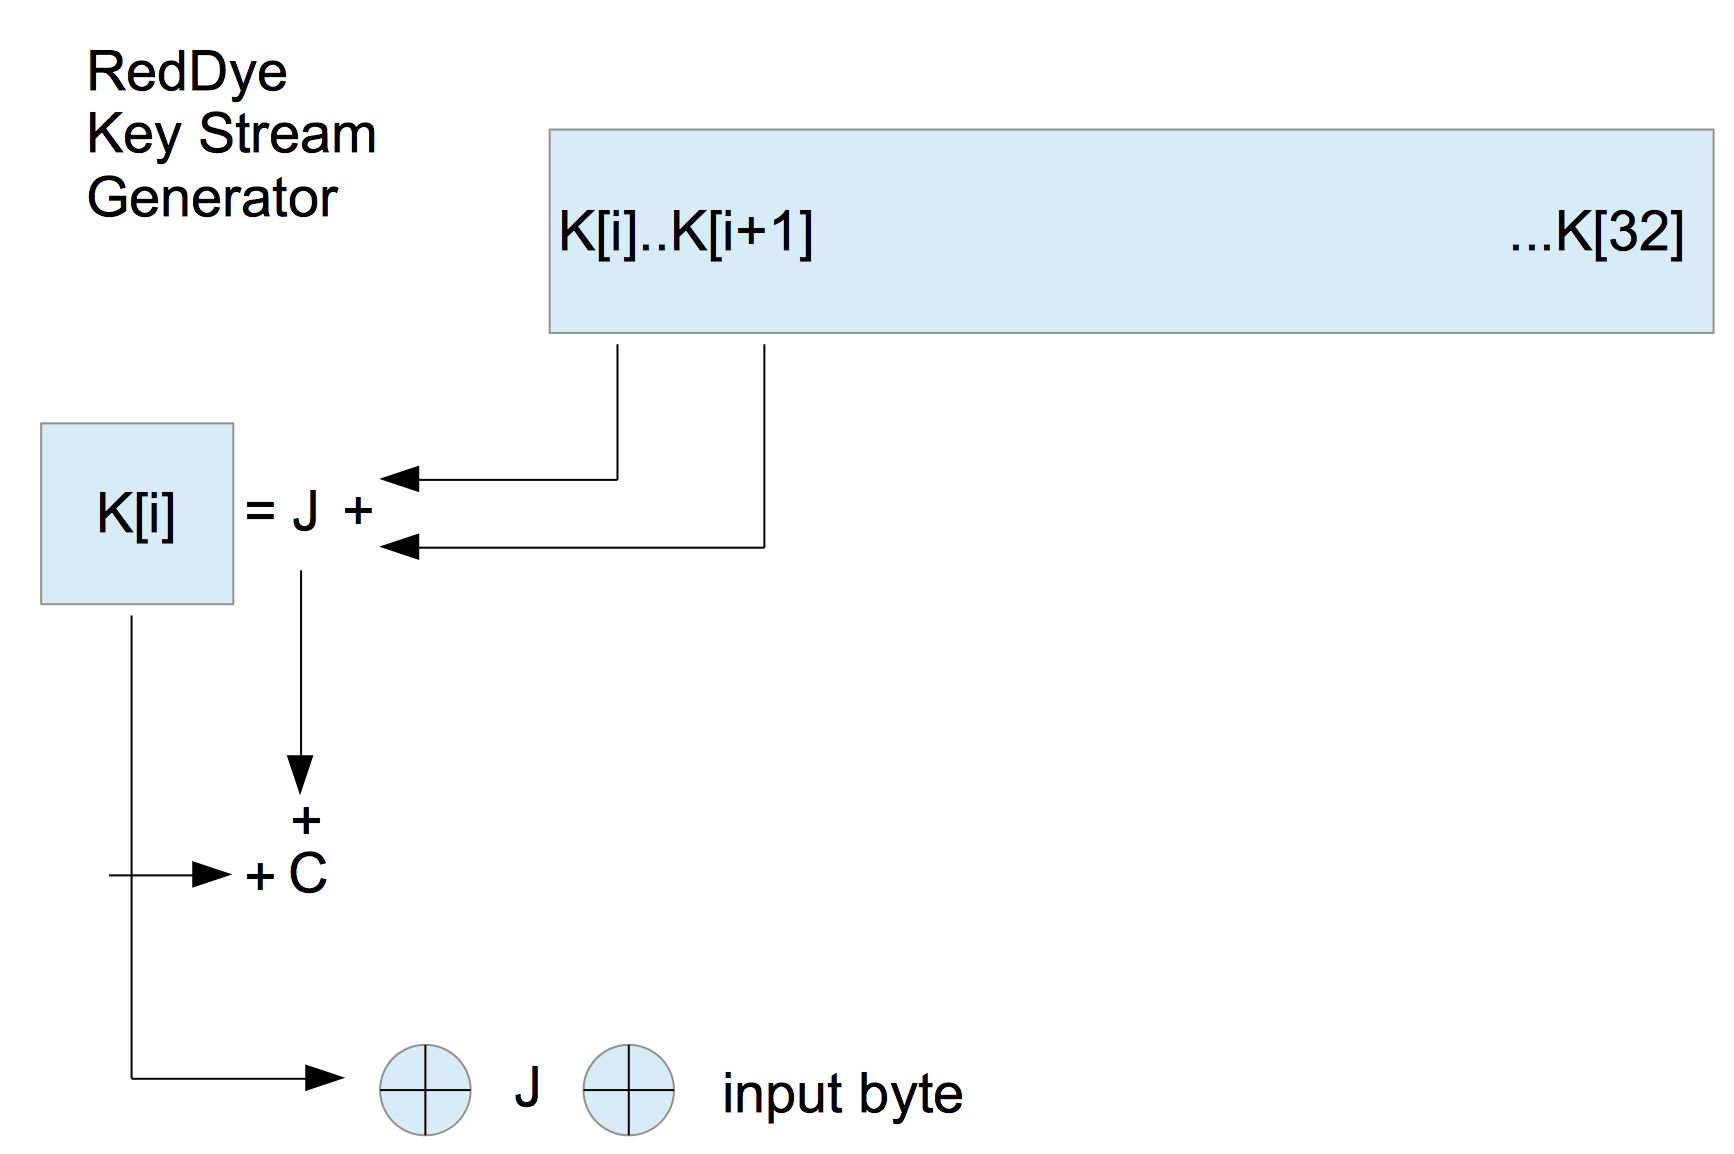
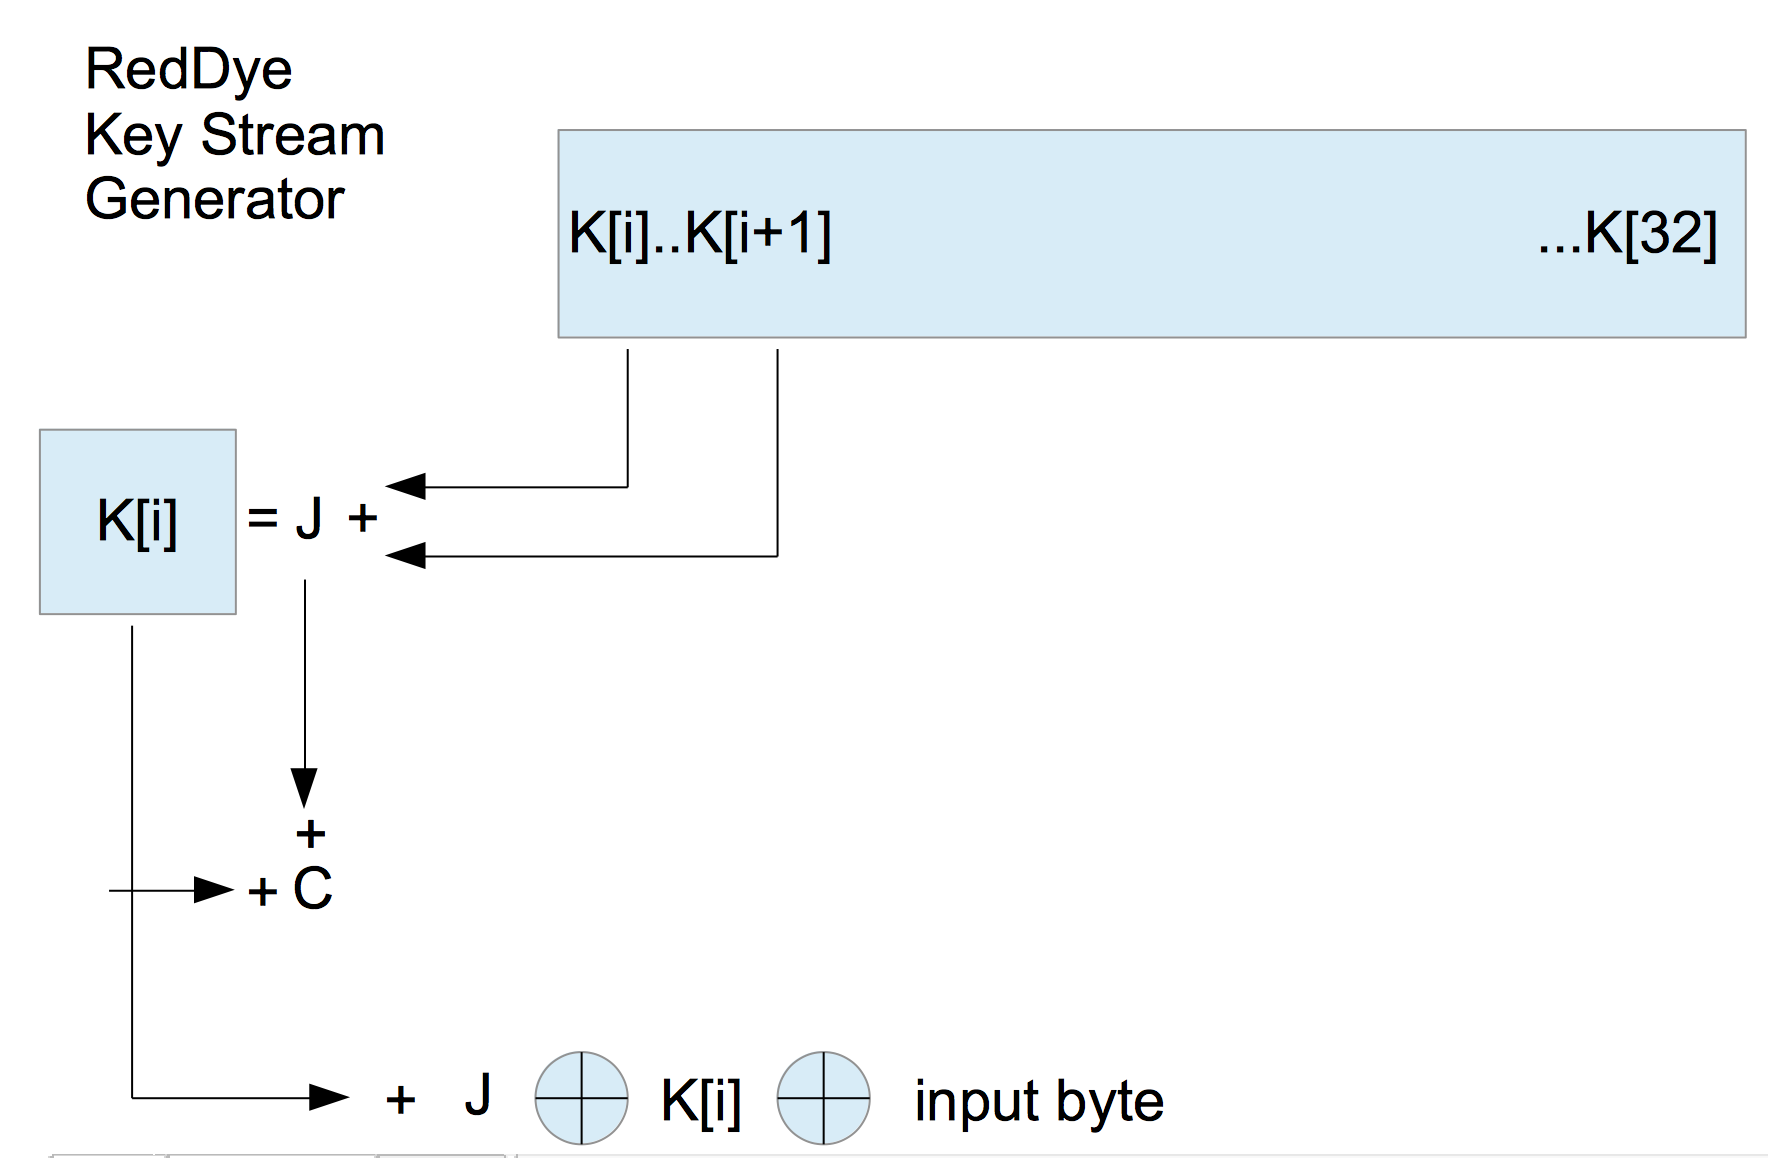
RedDye Refit

diff --git a/python/H4/__init__.py b/python/H4/__init__.py
@@ -17,7 +17,7 @@ class H4:
         for char in chars:
             k[c % klen] = (k[c % klen] + k[(c + 1) % klen] + j) % 26
             j = (j + k[c % klen] + c) % 26
-            output = (j + k[c % klen]) % 26
+            output = (((j + k[c % klen]) % 26) + k[c % klen]) % 26
             sub = (output + (ord(char) - 65)) % 26
             ctxt.append(chr(sub + 65))
             c = (c + 1) % 26
@@ -31,7 +31,7 @@ class H4:
         for char in chars:
             k[c % klen] = (k[c % klen] + k[(c + 1) % klen] + j) % 26
             j = (j + k[c % klen] + c) % 26
-            output = (j + k[c % klen]) % 26
+            output = (((j + k[c % klen]) % 26) + k[c % klen]) % 26
             sub = ((ord(char) - 65) - output) % 26
             ctxt.append(chr(sub + 65))
             c = (c + 1) % 26

diff --git a/c/redcrypt/redcrypt.c b/c/redcrypt/redcrypt.c
@@ -76,7 +76,7 @@ int main(int argc, char *argv[]) {
             for (int b = 0; b < bsize; b++) {
                 k[i] = (k[i] + k[(i + 1) % keylen] + j) & 0xff;
                 j = (j + k[i] + c) & 0xff;
-		output = j ^ k[i];
+		output = ((j + k[i]) & 0xff) ^ k[i];
                 block[b] = block[b] ^ output;
                 c = (c + 1) & 0xff;
                 i = (i + 1) % keylen;
@@ -102,7 +102,7 @@ int main(int argc, char *argv[]) {
             for (int b = 0; b < bsize; b++) {
                 k[i] = (k[i] + k[(i + 1) % keylen] + j) & 0xff;
                 j = (j + k[i] + c) & 0xff;
-		output = j ^ k[i];
+		output = ((j + k[i]) & 0xff) ^ k[i];
                 block[b] = block[b] ^ output;
                 c = (c + 1) & 0xff;
 		i = (i + 1) % keylen;

diff --git a/c/redcrypt_1024/redcrypt.c b/c/redcrypt_1024/redcrypt.c
@@ -76,7 +76,7 @@ int main(int argc, char *argv[]) {
             for (int b = 0; b < bsize; b++) {
                 k[i] = (k[i] + k[(i + 1) % keylen] + j) & 0xff;
                 j = (j + k[i] + c) & 0xff;
-		output = j ^ k[i];
+		output = ((j + k[i]) & 0xff) ^ k[i];
                 block[b] = block[b] ^ output;
                 c = (c + 1) & 0xff;
                 i = (i + 1) % keylen;
@@ -102,7 +102,7 @@ int main(int argc, char *argv[]) {
             for (int b = 0; b < bsize; b++) {
                 k[i] = (k[i] + k[(i + 1) % keylen] + j) & 0xff;
                 j = (j + k[i] + c) & 0xff;
-		output = j ^ k[i];
+		output = ((j + k[i]) & 0xff) ^ k[i];
                 block[b] = block[b] ^ output;
                 c = (c + 1) & 0xff;
 		i = (i + 1) % keylen;

diff --git a/c/redcrypt_128/redcrypt.c b/c/redcrypt_128/redcrypt.c
@@ -76,7 +76,7 @@ int main(int argc, char *argv[]) {
             for (int b = 0; b < bsize; b++) {
                 k[i] = (k[i] + k[(i + 1) % keylen] + j) & 0xff;
                 j = (j + k[i] + c) & 0xff;
-		output = j ^ k[i];
+		output = ((j + k[i]) & 0xff) ^ k[i];
                 block[b] = block[b] ^ output;
                 c = (c + 1) & 0xff;
                 i = (i + 1) % keylen;
@@ -102,7 +102,7 @@ int main(int argc, char *argv[]) {
             for (int b = 0; b < bsize; b++) {
                 k[i] = (k[i] + k[(i + 1) % keylen] + j) & 0xff;
                 j = (j + k[i] + c) & 0xff;
-		output = j ^ k[i];
+		output = ((j + k[i]) & 0xff) ^ k[i];
                 block[b] = block[b] ^ output;
                 c = (c + 1) & 0xff;
 		i = (i + 1) % keylen;

diff --git a/c/redcrypt_512/redcrypt.c b/c/redcrypt_512/redcrypt.c
@@ -76,7 +76,7 @@ int main(int argc, char *argv[]) {
             for (int b = 0; b < bsize; b++) {
                 k[i] = (k[i] + k[(i + 1) % keylen] + j) & 0xff;
                 j = (j + k[i] + c) & 0xff;
-		output = j ^ k[i];
+		output = ((j + k[i]) & 0xff) ^ k[i];
                 block[b] = block[b] ^ output;
                 c = (c + 1) & 0xff;
                 i = (i + 1) % keylen;
@@ -102,7 +102,7 @@ int main(int argc, char *argv[]) {
             for (int b = 0; b < bsize; b++) {
                 k[i] = (k[i] + k[(i + 1) % keylen] + j) & 0xff;
                 j = (j + k[i] + c) & 0xff;
-		output = j ^ k[i];
+		output = ((j + k[i]) & 0xff) ^ k[i];
                 block[b] = block[b] ^ output;
                 c = (c + 1) & 0xff;
 		i = (i + 1) % keylen;

diff --git a/c/redcrypt_2048/redcrypt.c b/c/redcrypt_2048/redcrypt.c
@@ -76,7 +76,7 @@ int main(int argc, char *argv[]) {
             for (int b = 0; b < bsize; b++) {
                 k[c] = (k[c] + k[(c + 1) & 0xff] + j) & 0xff;
                 j = (j + k[c] + c) & 0xff;
-		output = j ^ k[c];
+		output = ((j + k[c]) & 0xff) ^ k[c];
                 block[b] = block[b] ^ output;
                 c = (c + 1) & 0xff;
             }
@@ -101,7 +101,7 @@ int main(int argc, char *argv[]) {
             for (int b = 0; b < bsize; b++) {
                 k[c] = (k[c] + k[(c + 1) % keylen] + j) & 0xff;
                 j = (j + k[c] + c) & 0xff;
-		output = j ^ k[c];
+		output = ((j + k[c]) & 0xff) ^ k[c];
                 block[b] = block[b] ^ output;
                 c = (c + 1) & 0xff;
             }

diff --git a/python/RedDye/reddye26.py b/python/RedDye/reddye26.py
@@ -20,7 +20,7 @@ class RedDye:
         for char in chars:
             k[c] = (k[c] + k[i] + j) % 26
             j = (j + k[c] + c) % 26
-            output = (j + k[c]) % 26
+            output = (((j + k[c]) % 26) + k[c]) % 26
             sub = (output + (ord(char) - 65)) % 26
             ctxt.append(chr(sub + 65))
             i = (i + 1) % 26
@@ -35,7 +35,7 @@ class RedDye:
         for char in chars:
             k[c] = (k[c] + k[i] + j) % 26
             j = (j + k[c] + c) % 26
-            output = (j + k[c]) % 26
+            output = (((j + k[c]) % 26) + k[c]) % 26
             sub = ((ord(char) - 65) - output) % 26
             ctxt.append(chr(sub + 65))
             i = (i + 1) % 26

diff --git a/python/RedDye/__init__.py b/python/RedDye/__init__.py
@@ -22,14 +22,14 @@ class RedDye:
 
     def crypt(self, data, key, nonce="", test=1):
         ctxt = []
-        k, j, last = self.keysetup(key, nonce)
+        k, j = self.keysetup(key, nonce)
         klen = len(k)
         c = i = 0
         for byte in data:
             k[i] = (k[i] + k[(i + 1) % klen] + j) & 0xff
             j = (j + k[i] + c) & 0xff
-            output = j ^ k[i]
-            sub = ((ord(byte)) ^ k[i]) & 0xff
+            output = k[i] ^ ((j + k[i]) & 0xff)
+            sub = ((ord(byte)) ^ output)
             ctxt.append(chr(sub))
             c = (c + 1) & 0xff
             i = (i + 1) % klen

diff --git a/c/reddye_kdf.c b/c/reddye_kdf.c
@@ -36,7 +36,7 @@ unsigned char * kdf (unsigned char *password, unsigned char *key, unsigned char 
     for (int x = 0; x < (keylen * iterations); x++) {
        kdf_k[r] = (kdf_k[r] + kdf_k[(r + 1) % keylen] + t) & 0xff;
        t = (t + kdf_k[r] + n) & 0xff;
-       out = t ^ kdf_k[r];
+       out = ((t + kdf_k[r]) & 0xff) ^ kdf_k[r];
        key[r] = (unsigned char)key[r] ^ out;
        n = (n + 1) & 0xff;
        r = (r + 1) % keylen;

diff --git a/c/redcrypt/reddye.c b/c/redcrypt/reddye.c
@@ -26,7 +26,7 @@ unsigned char *crypt(unsigned char *data, unsigned char *key, unsigned char *non
    for (int x = 0; x < datalen; x++) {
        k[i] = (k[i] + k[(i + 1) % keylen] + j) & 0xff;
        j = (j + k[i] + c) & 0xff;
-       output = j ^ k[i];
+       output = ((j + k[i]) & 0xff) ^ k[i];
        data[x] = data[x] ^ output;
        c = (c + 1) & 0xff;
        i = (i + 1) % keylen;

diff --git a/c/redcrypt_1024/reddye.c b/c/redcrypt_1024/reddye.c
@@ -26,7 +26,7 @@ unsigned char *crypt(unsigned char *data, unsigned char *key, unsigned char *non
    for (int x = 0; x < datalen; x++) {
        k[i] = (k[i] + k[(i + 1) % keylen] + j) & 0xff;
        j = (j + k[i] + c) & 0xff;
-       output = j ^ k[i];
+       output = ((j + k[i]) & 0xff) ^ k[i];
        data[x] = data[x] ^ output;
        c = (c + 1) & 0xff;
        i = (i + 1) % keylen;

diff --git a/c/redcrypt_128/reddye.c b/c/redcrypt_128/reddye.c
@@ -25,7 +25,7 @@ unsigned char *crypt(unsigned char *data, unsigned char *key, unsigned char *non
    for (int x = 0; x < datalen; x++) {
        k[i] = (k[i] + k[(i + 1) % keylen] + j) & 0xff;
        j = (j + k[i] + c) & 0xff;
-       output = j ^ k[i];
+       output = ((j + k[i]) & 0xff) ^ k[i];
        data[x] = data[x] ^ output;
        c = (c + 1) & 0xff;
        i = (i + 1) % keylen;
